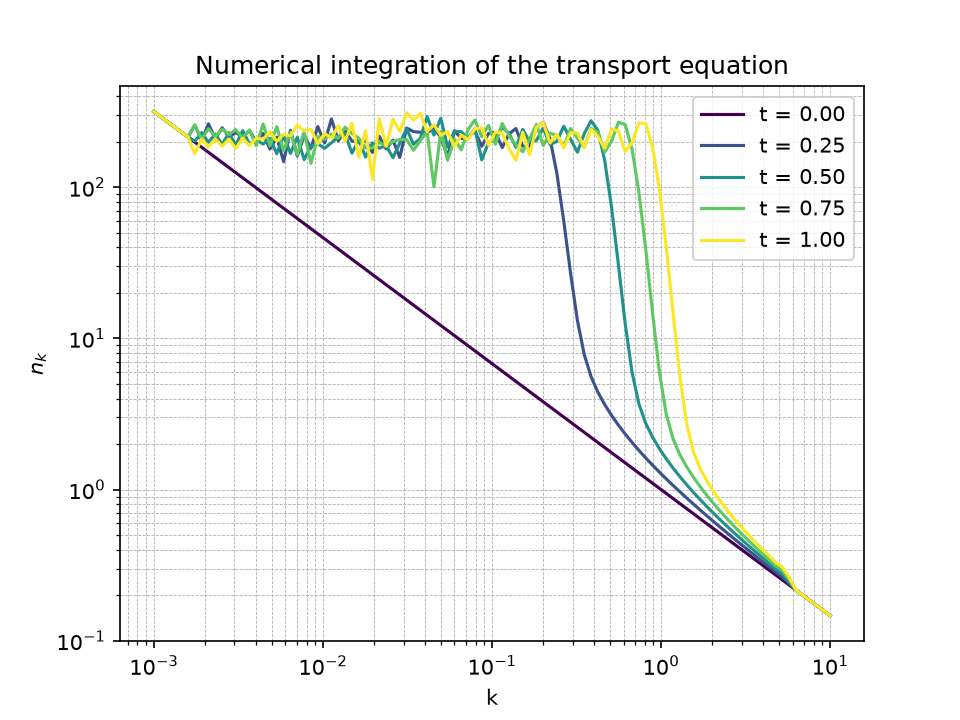
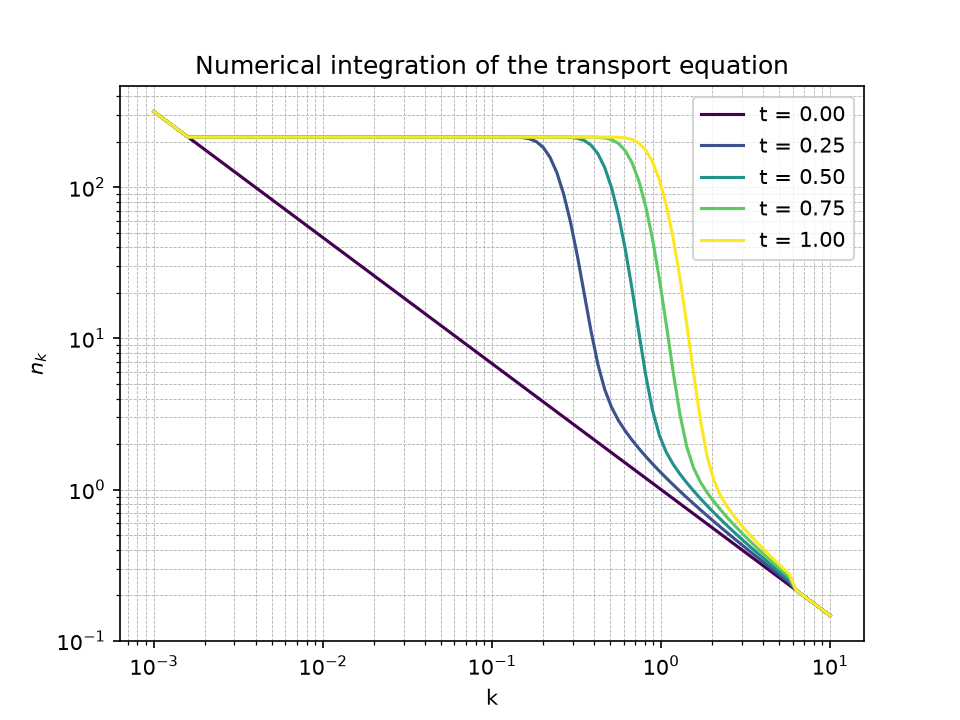
Update integration step size and implement upwind scheme for derivative calculation in transport functions

Changed region(s): [[0.1875, 0.1528, 0.8125, 0.7944], [0.8125, 0.7944, 0.8438, 0.825]]

diff --git a/transport.py b/transport.py
@@ -44,6 +44,19 @@ def dndk(n, k, dlnk):
 
     return dn_dlnk/k
 
+def dndk_upwind(n, k, dlnk):
+    """
+    Calculate the derivative of n with respect to k using upwind scheme.
+    Parameters:
+    n (array): Array of n values.
+    dk (float): Step size in k-space.
+    """
+
+    dn_dk = np.zeros_like(n)
+    dn_dk[1:] = (n[1:] - n[:-1]) / dlnk
+
+    return dn_dk/k
+
 def apply_standard_bc(n, k, n_left_fix, buf_left = 6, buf_right = 6):
     """
     Apply standard boundary conditions to the array n.
@@ -91,7 +104,8 @@ def rhs(t, n, k, n_left_fix, dlnk , c):
     
     #n = apply_bc(n, k, n_left_fix, buf_left = 6, buf_right = 6, fit_points = 2)
     n = apply_standard_bc(n, k, n_left_fix, buf_left= 6, buf_right=6)
-    dn = dndk(n, k, dlnk)
+    #dn = dndk(n, k, dlnk)
+    dn = dndk_upwind(n, k, dlnk)
     dndt = c*dn
     dndt[:6] = 0.0
 

diff --git a/main_transport.py b/main_transport.py
@@ -7,7 +7,7 @@ n_k = initial_condition(1.0, k, -5/6)
 rhs_args = (k, dlnk, c)
 n_left_fix = n_k[:6].copy()
 
-ts, ns = integrate(rhs, n_k, (0.0, 1.0),  1e-5, n_left_fix, k, dlnk, c)
+ts, ns = integrate(rhs, n_k, (0.0, 1.0),  1e-6, n_left_fix, k, dlnk, c)
 
 plot_results(ts, ns, n_snap = 5, k = k, save_path = "outputs_transport/transport_results.png", show = False)
 
